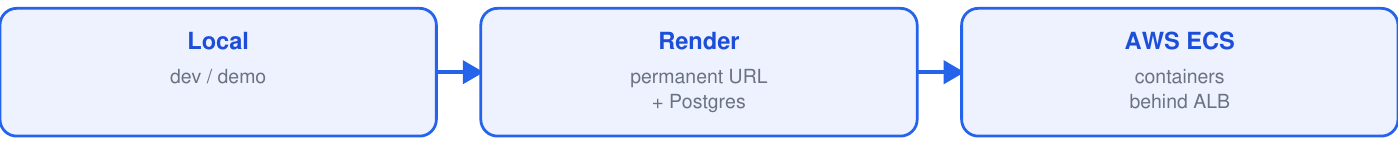
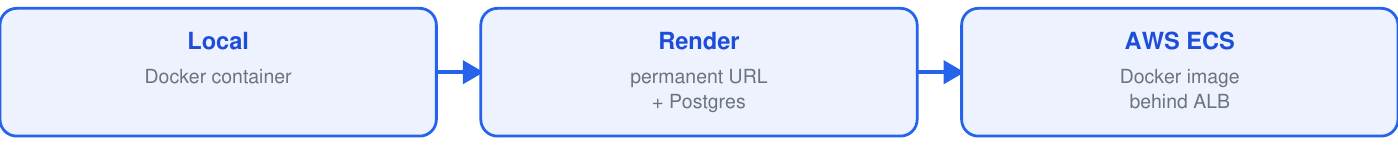
docs: swap roles (Touseef=Auth, Abdul Ahad=Sharing) and move Docker setup into Abdul's report

Changed region(s): [[0.0923, 0.469, 0.2153, 0.5793], [0.7997, 0.469, 0.892, 0.6069]]

diff --git a/docs/generate_member_reports.py b/docs/generate_member_reports.py
@@ -75,9 +75,9 @@ def detect_pages(pdf_path, titles):
 
 
 TEAM_ROWS = [
-    ["Authentication & User Accounts", "Abdul Ahad"],
+    ["Authentication & User Accounts", "Touseef Abbas"],
     ["File Storage & Upload/Download", "Shehriyar Ali Rustam"],
-    ["Sharing & Collaboration", "Touseef Abbas"],
+    ["Sharing & Collaboration (+ Docker/Deployment)", "Abdul Ahad"],
 ]
 
 
@@ -161,7 +161,7 @@ def build_member(cfg, out, toc_entries):
 MEMBERS = [
     {
         "key": "auth",
-        "member_name": "Abdul Ahad",
+        "member_name": "Touseef Abbas",
         "module_title": "Authentication & User Accounts",
         "out": os.path.join(HERE, "CloudDrive_Report_1_Authentication.docx"),
         "feature_intro":
@@ -285,23 +285,16 @@ MEMBERS = [
             "endpoints in backend/main.py; the File and Folder models in backend/models.py. Frontend: "
             "uploadOne / putWithProgress / loadFiles / renderGrid in frontend/app.js.",
         "tools": ["Python 3.12", "FastAPI", "SQLAlchemy", "Amazon S3", "boto3", "SQLite",
-                  "Terraform", "Docker"],
-        "cloud_heading": "6. My Cloud & DevOps Contribution — S3, Terraform & Docker",
-        "cloud_body": "I own the project's cloud storage and its packaging and infrastructure-as-code.",
+                  "Terraform"],
+        "cloud_heading": "6. My Cloud & DevOps Contribution — Amazon S3 & Terraform (IaC)",
+        "cloud_body": "I own the project's cloud storage and its infrastructure-as-code.",
         "cloud_bullets": [
             "An Amazon S3 bucket with versioning and AES-256 encryption, with all public access blocked.",
             "Terraform definitions that provision the S3 bucket and supporting infrastructure as code.",
-            "A Dockerfile that containerizes the whole app; the same image runs locally and on ECS.",
+            "Pre-signed URLs against a private bucket, so files are never publicly exposed.",
         ],
-        "dockerfile":
-            "FROM python:3.12-slim\n"
-            "WORKDIR /app\n"
-            "RUN pip install --no-cache-dir -r requirements.txt\n"
-            "COPY backend ./backend ; COPY frontend ./frontend\n"
-            'CMD ["uvicorn", "backend.main:app", "--host", "0.0.0.0", "--port", "8000"]',
         "cloud_images": [
             ("s3_bucket.png", 6.2, "Figure 3: Real objects in the S3 bucket (versioning + AES-256)."),
-            ("docker.png", 6.2, "Figure 4: The app running inside a Docker container, serving S3."),
         ],
         "test_headers": ["Test (tests/test_files.py)", "What it checks"],
         "test_rows": [
@@ -315,12 +308,12 @@ MEMBERS = [
         "test_note": "7 automated tests cover this module (tests/test_files.py), all passing in CI.",
         "conclusion":
             "I delivered the cloud storage core — the pre-signed upload/download flow on Amazon S3, the "
-            "pluggable storage layer, and folder and quota management — plus the Terraform and Docker "
-            "packaging that make the application deployable to the cloud.",
+            "pluggable storage layer, and folder and quota management — plus the Terraform "
+            "infrastructure-as-code that provisions the cloud storage.",
     },
     {
         "key": "sharing",
-        "member_name": "Touseef Abbas",
+        "member_name": "Abdul Ahad",
         "module_title": "Sharing & Collaboration",
         "out": os.path.join(HERE, "CloudDrive_Report_3_Sharing.docx"),
         "feature_intro":
@@ -366,23 +359,35 @@ MEMBERS = [
             "Implemented in the sharing endpoints of backend/main.py (create_share, shared_with_me, "
             "shared_download, public_download); the Share model in backend/models.py. Frontend: "
             "openShare / shareWithUser / makePublicLink / loadSharedWithMe in frontend/app.js.",
-        "tools": ["Python 3.12", "FastAPI", "SQLAlchemy", "Render", "Cloudflare Tunnel",
+        "tools": ["Python 3.12", "FastAPI", "Docker", "Amazon ECR", "Render", "Cloudflare Tunnel",
                   "Amazon ECS Fargate", "Application Load Balancer", "Amazon VPC"],
-        "cloud_heading": "6. My Cloud & DevOps Contribution — Deployment & Networking",
-        "cloud_body": "I own getting the application onto the internet and the network that supports it.",
+        "cloud_heading": "6. My Cloud & DevOps Contribution — Docker, Deployment & Networking",
+        "cloud_body":
+            "I own packaging the application into a container and getting it onto the internet, plus the "
+            "network that supports it. The Dockerfile installs dependencies, copies the code, and starts "
+            "the API server:",
         "cloud_bullets": [
+            "A Dockerfile that containerizes the whole app; the same image runs locally and on ECS via ECR.",
             "Deployment to Render (a permanent URL plus a managed PostgreSQL) and a Cloudflare tunnel for demos.",
             "The AWS network: a VPC with public/private subnets and an Application Load Balancer in front of ECS.",
             "The continuous-deployment workflow that builds the image and ships it.",
         ],
+        "dockerfile":
+            "FROM python:3.12-slim\n"
+            "WORKDIR /app\n"
+            "RUN pip install --no-cache-dir -r requirements.txt\n"
+            "COPY backend ./backend ; COPY frontend ./frontend\n"
+            'CMD ["uvicorn", "backend.main:app", "--host", "0.0.0.0", "--port", "8000"]',
         "cloud_diagram_steps": [
-            ("Local", ["dev / demo"]),
+            ("Local", ["Docker container"]),
             ("Render", ["permanent URL", "+ Postgres"]),
-            ("AWS ECS", ["containers", "behind ALB"]),
+            ("AWS ECS", ["Docker image", "behind ALB"]),
         ],
         "cloud_diagram_caption": "Figure 5: Deployment options (all use Amazon S3 for files).",
-        "cloud_images": [("gh_actions.png", 6.2,
-                          "Figure 6: GitHub Actions — CI and Deploy workflows running green.")],
+        "cloud_images": [
+            ("docker.png", 6.2, "Figure 6: The app running inside a Docker container, serving S3."),
+            ("gh_actions.png", 6.2, "Figure 7: GitHub Actions — CI and Deploy workflows running green."),
+        ],
         "test_headers": ["Test (tests/test_sharing_security.py)", "What it checks"],
         "test_rows": [
             ["share with user", "creates a share for that user"],
@@ -395,7 +400,8 @@ MEMBERS = [
         "conclusion":
             "I delivered the sharing and collaboration features — user-to-user sharing, public expiring "
             "links, and the 'Shared with me' view with secure pre-signed downloads — plus the project's "
-            "deployment (Render / ECS / tunnel) and the network (VPC and load balancer) that put it online.",
+            "containerization (Docker), its deployment (Render / ECS / tunnel) and the network (VPC and "
+            "load balancer) that put it online.",
     },
 ]
 